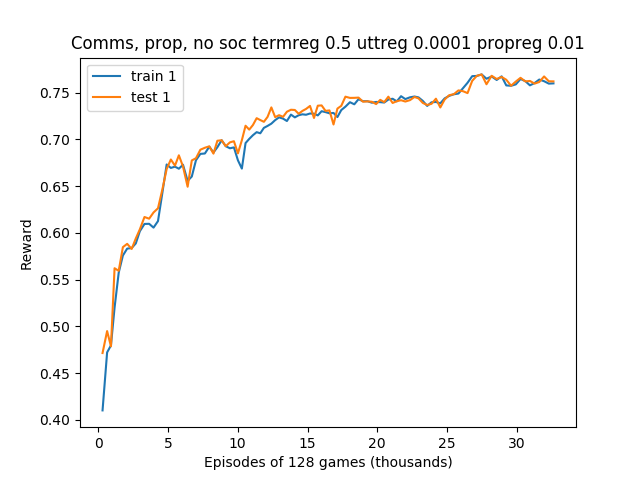
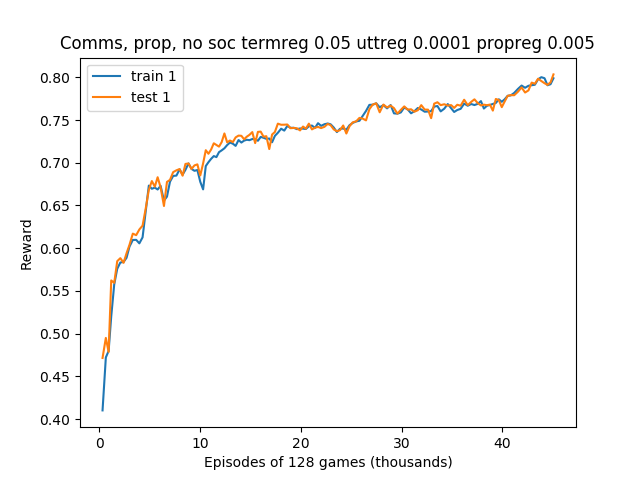
readme

diff --git a/README.md b/README.md
@@ -46,7 +46,27 @@ Then:
 
 One negotation is printed out every 3 seconds or so, using the training set; the other negotations are executed silently.  There is no test set for now.
 
-## Results so far
+## Results so far, summary
+
+| Agent sociability | Proposal | Linguistic | Both | None |
+|------------------|----------|------------|-------|------|
+| Self-interested, random term |  |   |  >=0.80  | |
+| Prosocial, random term | ~0.91 | ~0.83 | ~0.96 | >= 0.90 |
+
+Notes:
+- prosocial runs all use termreg=0.5, uttreg=0.0001, propreg=0.01
+- self-interested run uses: termreg=0.05, uttreg=0.0001, propreg=0.005
+
+|Prop? | Comm? | Soc? | Rend term? | Term reg | Utt reg | Prop reg | Subjective variance | Reward | Greedy ratios |
+|-----|-------|-------|-------------|--------|--------|------------|---------------------|---------|-----------|
+| Y   | Y     | Y      | Y          | 0.5    | 0.0001 | 0.01   | Low                     | ~0.96 | term=0.7345 utt=0.7635 prop=0.8304 |
+| Y   | N      | Y      | Y         | 0.5    | 0.0001 | 0.01   | Medium-High             | ~0.91 | term=0.6965 utt=0.0000 prop=0.8741 |
+| N   | Y      | Y     | Y          | 0.5     | 0.0001 | 0.01  | High                   | ~0.83  | term=0.6889 utt=0.7849 prop=0.8222 |
+| N   | N       | Y     | Y         | 0.5      | 0.0001 | 0.01  | Very low              | >= 0.90 (climbing) | term=0.7781 utt=0.0000 prop=0.6006 |
+| Y   | Y       | N     | Y         | 0.5      | 0.0001 | 0.01  | Very High             | ~0.25  | term=0.7467 utt=0.9284 prop=0.8137 |
+| Y   | Y       | N     | Y         | 0.05     | 0.0001 | 0.005 | Very Low              | >= 0.80 (climbing) | term=0.9820 utt=0.7040 prop=0.6523 |
+
+## Example training curves
 
 ### proposal, comms, prosocial
 

diff --git a/explog.md b/explog.md
@@ -864,3 +864,14 @@ maybe term entreg too high?
 - medium variance (not so crazy as for noprop,comms; or for nosoc; but higher than say prop,comms,soc)
 - reasonably high result: plateau'd around ~0.92 test
 - => matches paper Table 1
+
+Let's start summarizing the results in a table:
+
+|Prop? | Comm? | Soc? | Rend term? | Term reg | Utt reg | Prop reg | Subjective variance | Reward | Greedy ratios | gpu |
+|-----|-------|-------|-------------|--------|--------|------------|---------------------|---------|---------------|--|
+| Y   | Y     | Y      | Y          | 0.5    | 0.0001 | 0.01   | Low                     | ~0.96 | term=0.7345 utt=0.7635 prop=0.8304 | gpu1,gpu2,gpu6 |
+| Y   | N      | Y      | Y         | 0.5    | 0.0001 | 0.01   | Medium-High             | ~0.91 | term=0.6965 utt=0.0000 prop=0.8741 | gpu3 |
+| N   | Y      | Y     | Y          | 0.5     | 0.0001 | 0.01  | High                   | ~0.83  | term=0.6889 utt=0.7849 prop=0.8222 | gpu4 |
+| N   | N       | Y     | Y         | 0.5      | 0.0001 | 0.01  | Very low              | >= 0.90 (climbing) | term=0.7781 utt=0.0000 prop=0.6006 | gpu5 |
+| Y   | Y       | N     | Y         | 0.5      | 0.0001 | 0.01  | Very High             | ~0.25  | term=0.7467 utt=0.9284 prop=0.8137 | was gpu7 |
+| Y   | Y       | N     | Y         | 0.05     | 0.0001 | 0.005 | Very Low              | >= 0.80 (climbing) | term=0.9820 utt=0.7040 prop=0.6523 | gpu7 |
